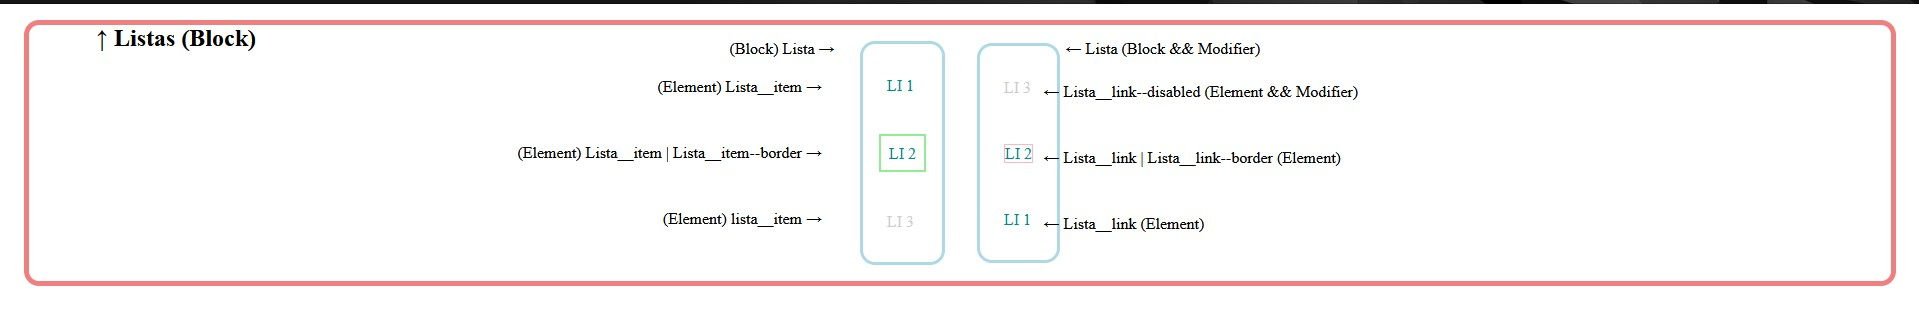
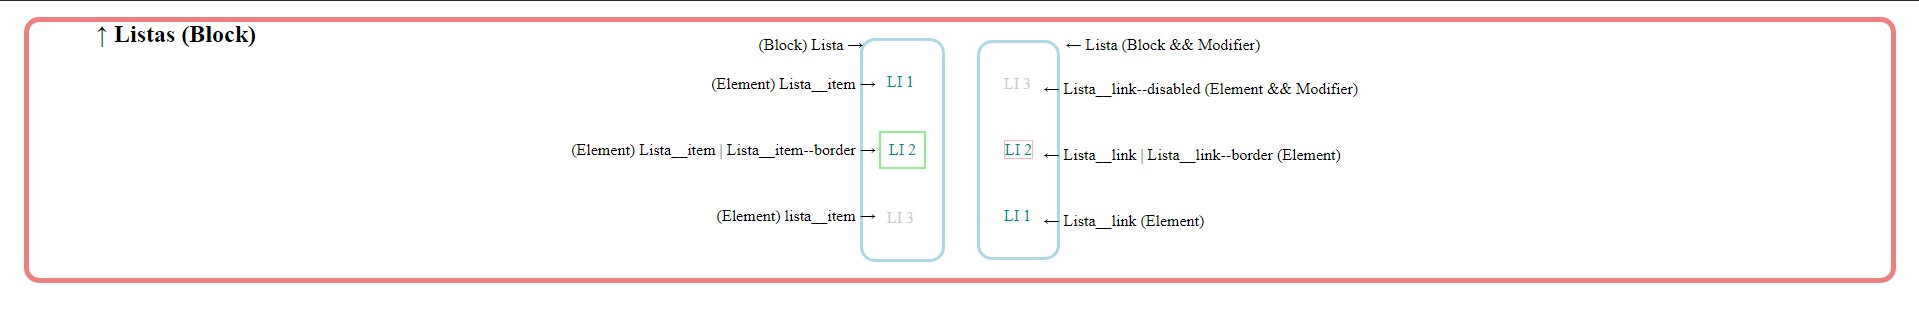
[fix] Corrige imagem Read.me

diff --git a/BEM/bem.css b/BEM/bem.css
@@ -16,7 +16,7 @@
 .listas__pointer {
   position: absolute;
   top: 2%;
-  left: 38%;
+  left: 39.5%;
 }
 
 .listas__pointer--reverse {
@@ -38,7 +38,7 @@
   text-align: right;
   position: absolute;
   top: 3.5%;
-  left: 25.7%;
+  left: 28.5%;
 }
 
 .lista--left {
